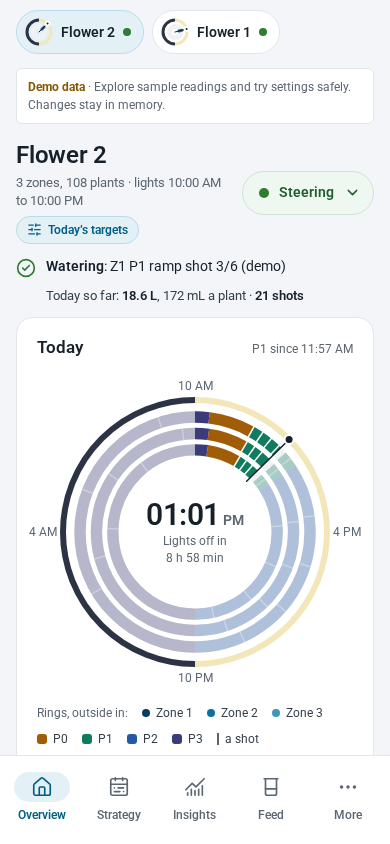
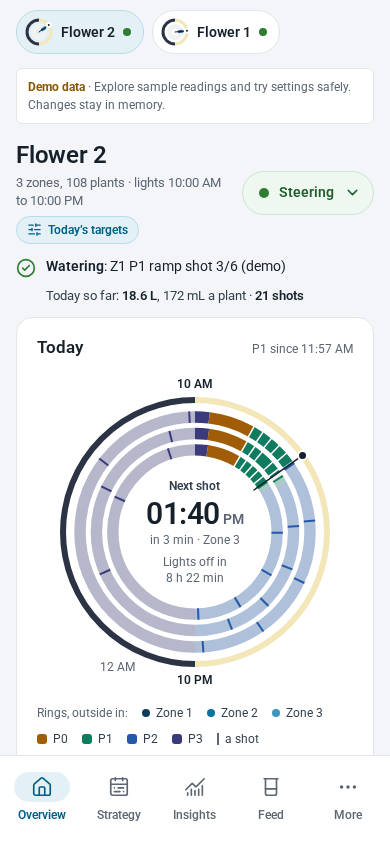
docs: the wide zone card in the guide, the 1.4.0 notes, and the screenshots retaken
The notes close with "Bug fixes and improvements.": What's new has four lines.
The README's screenshots are retaken by the browser checks at 1:38 PM (the
demo keeps the real time of day, so TZ=Asia/Kolkata), showing the clock's next
shot, Coming up with Show more, and the zone cards.

diff --git a/docs/USER_GUIDE.md b/docs/USER_GUIDE.md
@@ -33,7 +33,7 @@ New installation? Start with [Install, upgrade and rollback](INSTALL.md). The fi
 
 **Overview** is the room now. At the top: its name, its zones, plants and lights hours, and which targets it runs on, **Today’s targets** (blue, with sliders) or **Schedule in charge** with the schedule's day (indigo, with a calendar); either opens the page that sets them. Beside them, how the room runs (below). Then one line on what the room is doing (watering, holding and why, or not watering and what to do) with today's water and shots so far, and **Needs you**: the room's notices, the most urgent first, each with the way to its zone or to what its error code means.
 
-**Today** draws the grow-day as a clock: lights-on at the top and the day running clockwise, the outer ring light then dark (lights-on and lights-off are labelled where they fall, and midnight), one ring a zone (outside in) with its phases in their colours and a notch for each shot, the rest of the day faded as it is projected with a tick for each shot expected, and the hand at now. Its middle says the next shot, which zones and how long until it, and when the lights next change. **Coming up** lists the rest of the grow-day in order: each zone's next shot, as the controller has said it where it has, then the shots and phase changes the projection expects (marked predicted), and lights off, until the next lights-on. Beside the clock it is as tall as the clock's card: **Show more** opens the rest of the day, and **Show fewer** closes it. **Zones** has a card a zone, across the page (one zone the whole width, two halves, three thirds, and more in rows of three beneath): its phase, its moisture and how fast it is drying, EC, today's water against its daily limit with its shots, its day as a small chart shaded from its maintenance trigger to its peak target, and what comes next or what is wrong. Then the reservoir and **Earlier today**, the day's events, newest first.
+**Today** draws the grow-day as a clock: lights-on at the top and the day running clockwise, the outer ring light then dark (lights-on and lights-off are labelled where they fall, and midnight), one ring a zone (outside in) with its phases in their colours and a notch for each shot, the rest of the day faded as it is projected with a tick for each shot expected, and the hand at now. Its middle says the next shot, which zones and how long until it, and when the lights next change. **Coming up** lists the rest of the grow-day in order: each zone's next shot, as the controller has said it where it has, then the shots and phase changes the projection expects (marked predicted), and lights off, until the next lights-on. Beside the clock it is as tall as the clock's card: **Show more** opens the rest of the day, and **Show fewer** closes it. **Zones** has a card a zone, across the page (one zone the whole width, two halves, three thirds, and more in rows of three beneath): its phase, its moisture and how fast it is drying, EC, today's water against its daily limit with its shots, its day as a small chart shaded from its maintenance trigger to its peak target, and what comes next or what is wrong. A card the whole width (one zone) also shows today's peak and when, the dryback from it so far, and the last shot with what it gave. Then the reservoir and **Earlier today**, the day's events, newest first.
 
 A zone's name or chart opens its details. **<Zone> today** charts its grow day, its phase and VWC now above it; **Predictions**, at the right of **Today's events** under the chart, says how it is tracking against yesterday (or a typical day), its targets, the water so far and what comes next, and the **?** beside it holds the chart's key, with the switches that hide the projection, the earlier day and the targets. Point at or tap the chart for the details of any moment. **Today's events** lists the zone's day in order: phase changes, shots, holds, and each setting change with who made it (a person as Home Assistant knows them, **Auto setpoints**, or an automation by its name) and the value it replaced. Below the chart are its valve, last irrigation, readings and water, and its actions.
 

diff --git a/CHANGELOG.md b/CHANGELOG.md
@@ -20,6 +20,9 @@ and this project adheres to [Semantic Versioning](https://semver.org/spec/v2.0.0
   lights next change, in place of the time. Lights-on and lights-off are labelled where they fall,
   and the shots expected for the rest of the day show as ticks on each zone's ring. Coming up stops
   at the clock card's height, with **Show more** for the rest.
+- **A wide zone card shows the day's numbers.** With one zone across the page, its card adds
+  today's peak and when, the dryback from it so far, and the last shot with what it gave.
+- Bug fixes and improvements.
 
 ### 🔧 Technical notes
 
@@ -47,6 +50,10 @@ and this project adheres to [Semantic Versioning](https://semver.org/spec/v2.0.0
   **Show fewer** (`.upcoming-more`, `aria-expanded`) at the foot of the list replaces the
   heading's "N more today". `verify-dashboard.mjs` checks the middle, the labels, the ticks against
   the predicted shots, the pair's height, and the button.
+- Dashboard: a zone card 640 px or wider (a container query on `.zone-card`) shows `zoneToday`:
+  Peak today and when (`dayDryback`'s peak since lights-on), the Dryback from it (relative, as the
+  controller counts it), and the Last shot with what it gave at the configured flow (`lane.water`,
+  per plant when Water today is). `verify-dashboard.mjs` checks them at one zone across and two.
 
 ## [1.3.1] - 2026-10-17
 

diff --git a/custom_components/crop_steering/WHATS_NEW.md b/custom_components/crop_steering/WHATS_NEW.md
@@ -25,6 +25,8 @@ version being released.
 
 - Coming up lists every shot expected for the rest of the day, not just the next one, and agrees with each zone's card.
 - The Overview's clock shows the next shot in its middle, labels lights-on and lights-off, and marks the shots still to come.
+- With one zone across the page, its card adds today's peak, the dryback from it and the last shot.
+- Bug fixes and improvements.
 
 ## 1.3.1 - 2026-10-17
 

diff --git a/addons/f2_control/CHANGELOG.md b/addons/f2_control/CHANGELOG.md
@@ -2,6 +2,8 @@
 
 - The dashboard's Coming up lists every shot expected for the rest of the day, and its next shot matches what the controller says.
 - The Overview's clock shows the next shot in its middle, labels lights-on and lights-off, and marks the shots still to come.
+- With one zone across the page, its card adds today's peak, the dryback from it and the last shot.
+- Bug fixes and improvements.
 
 # 1.3.1
 
